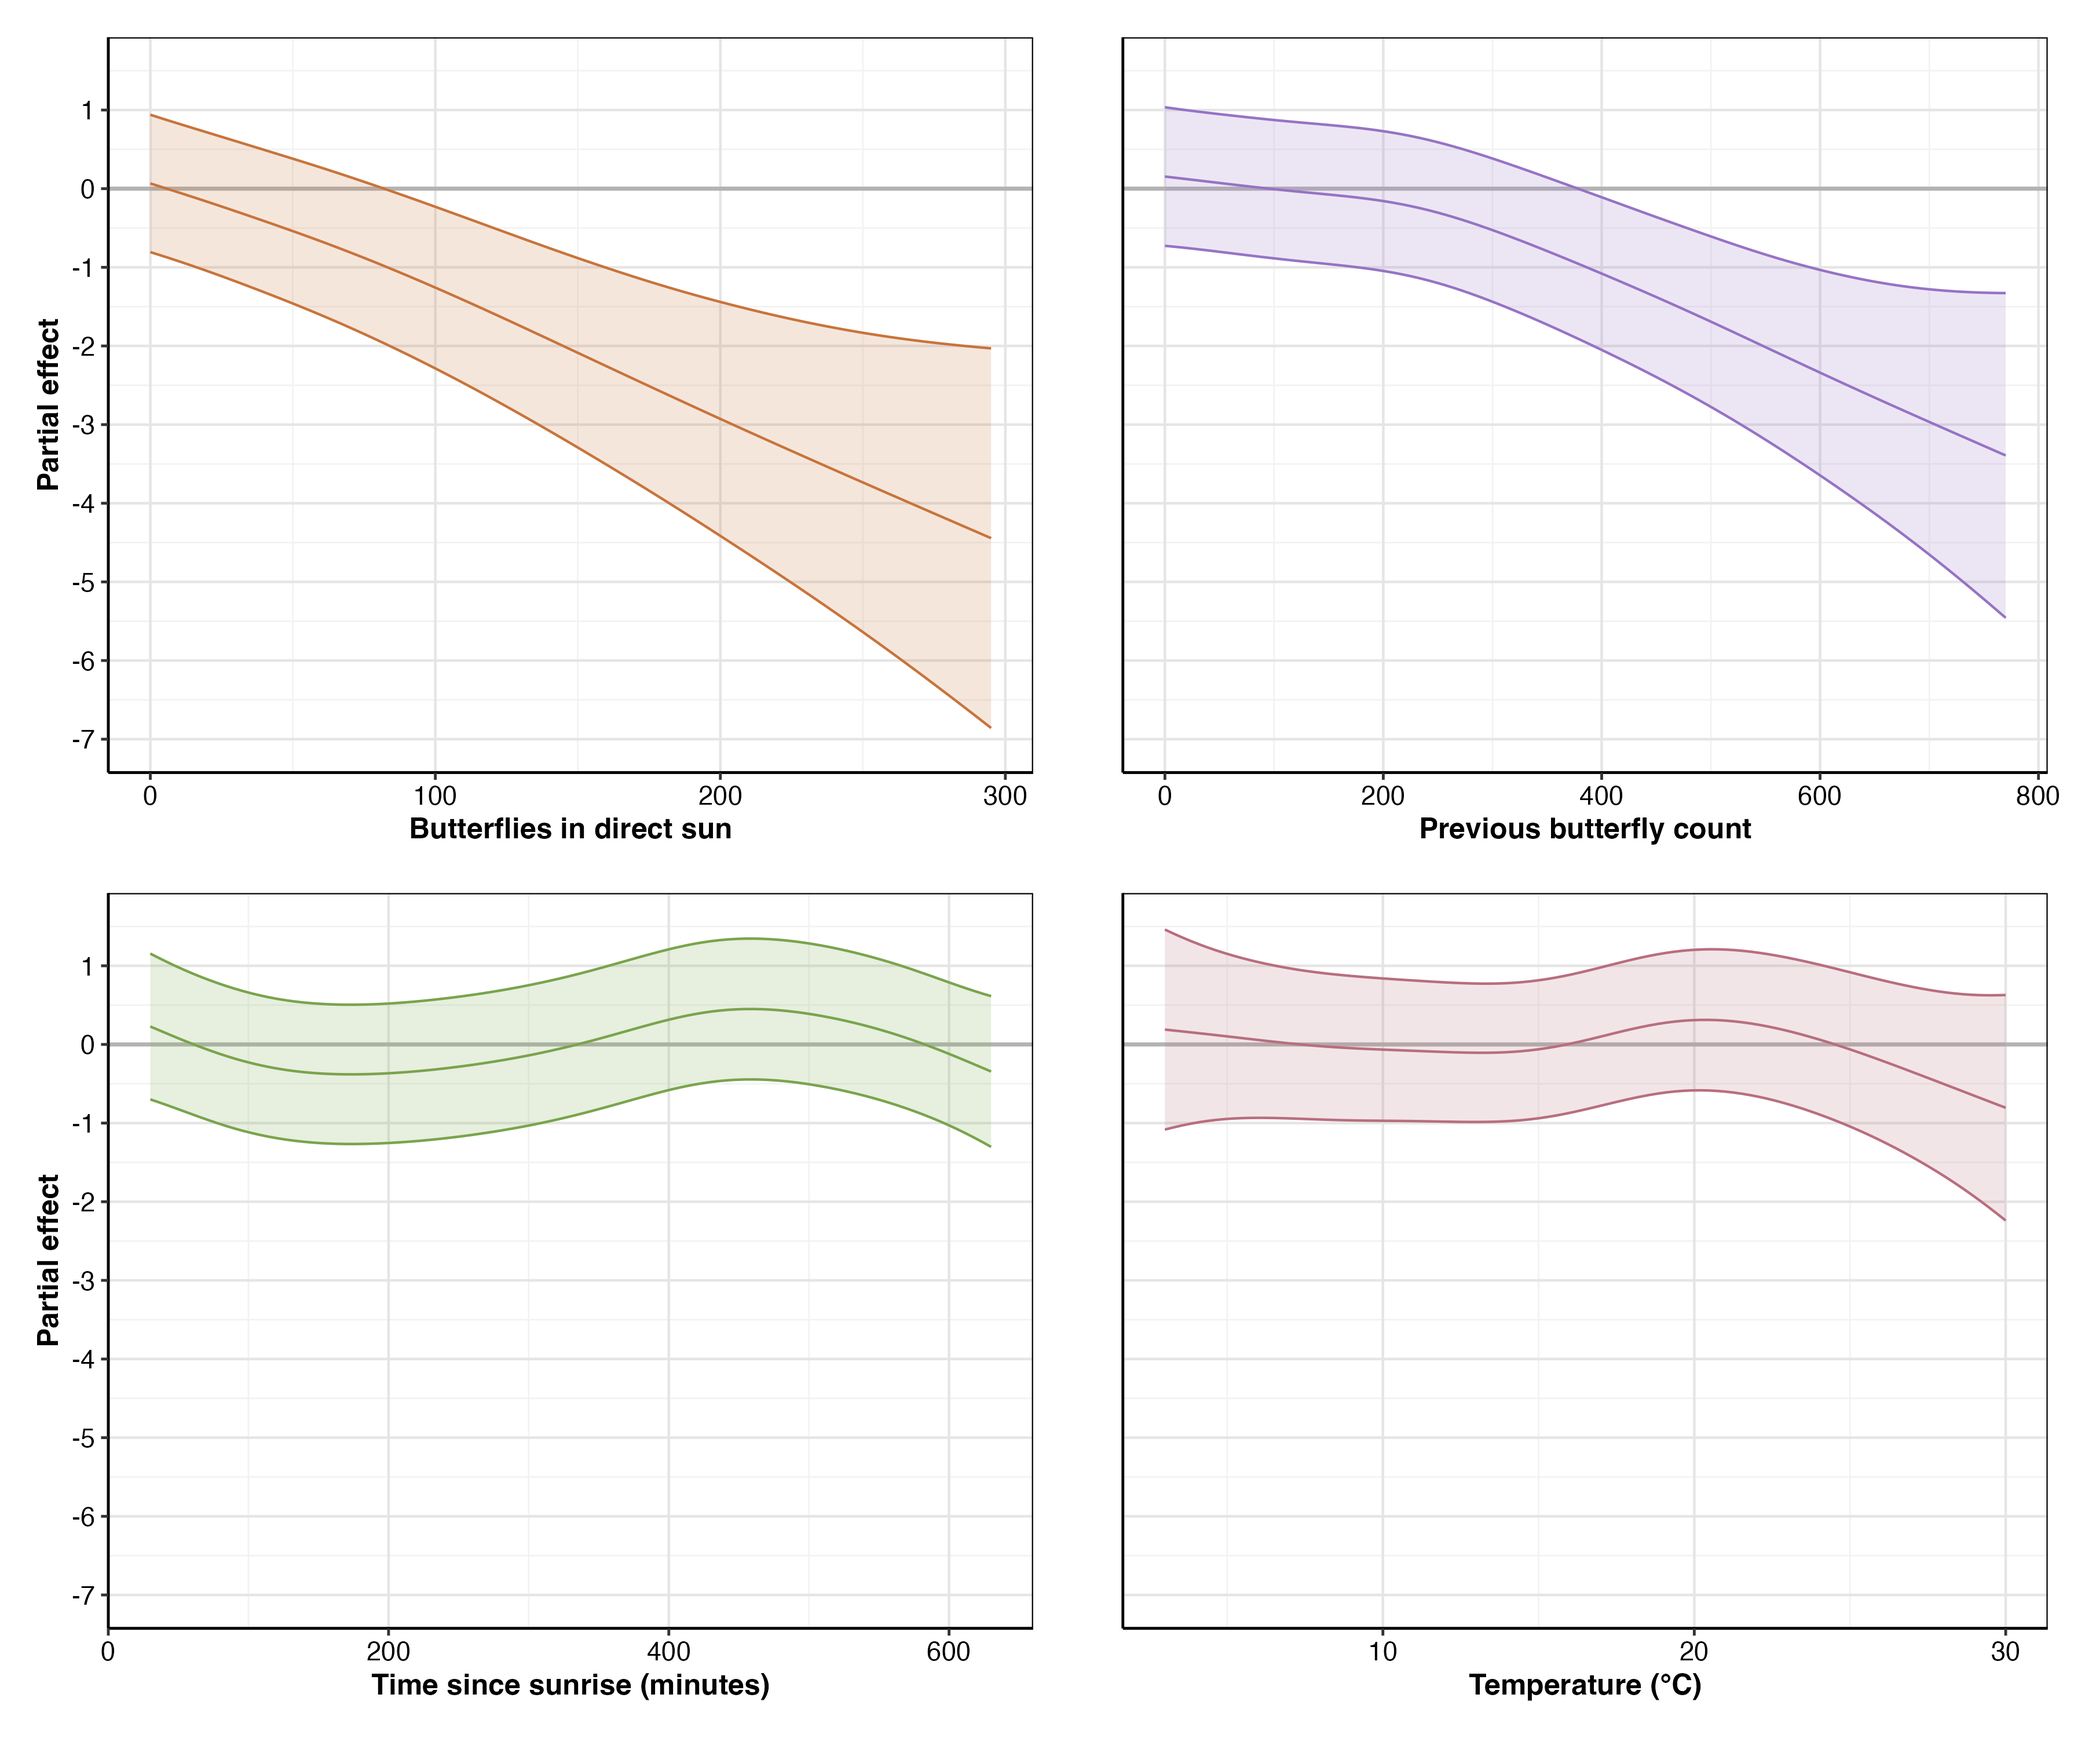
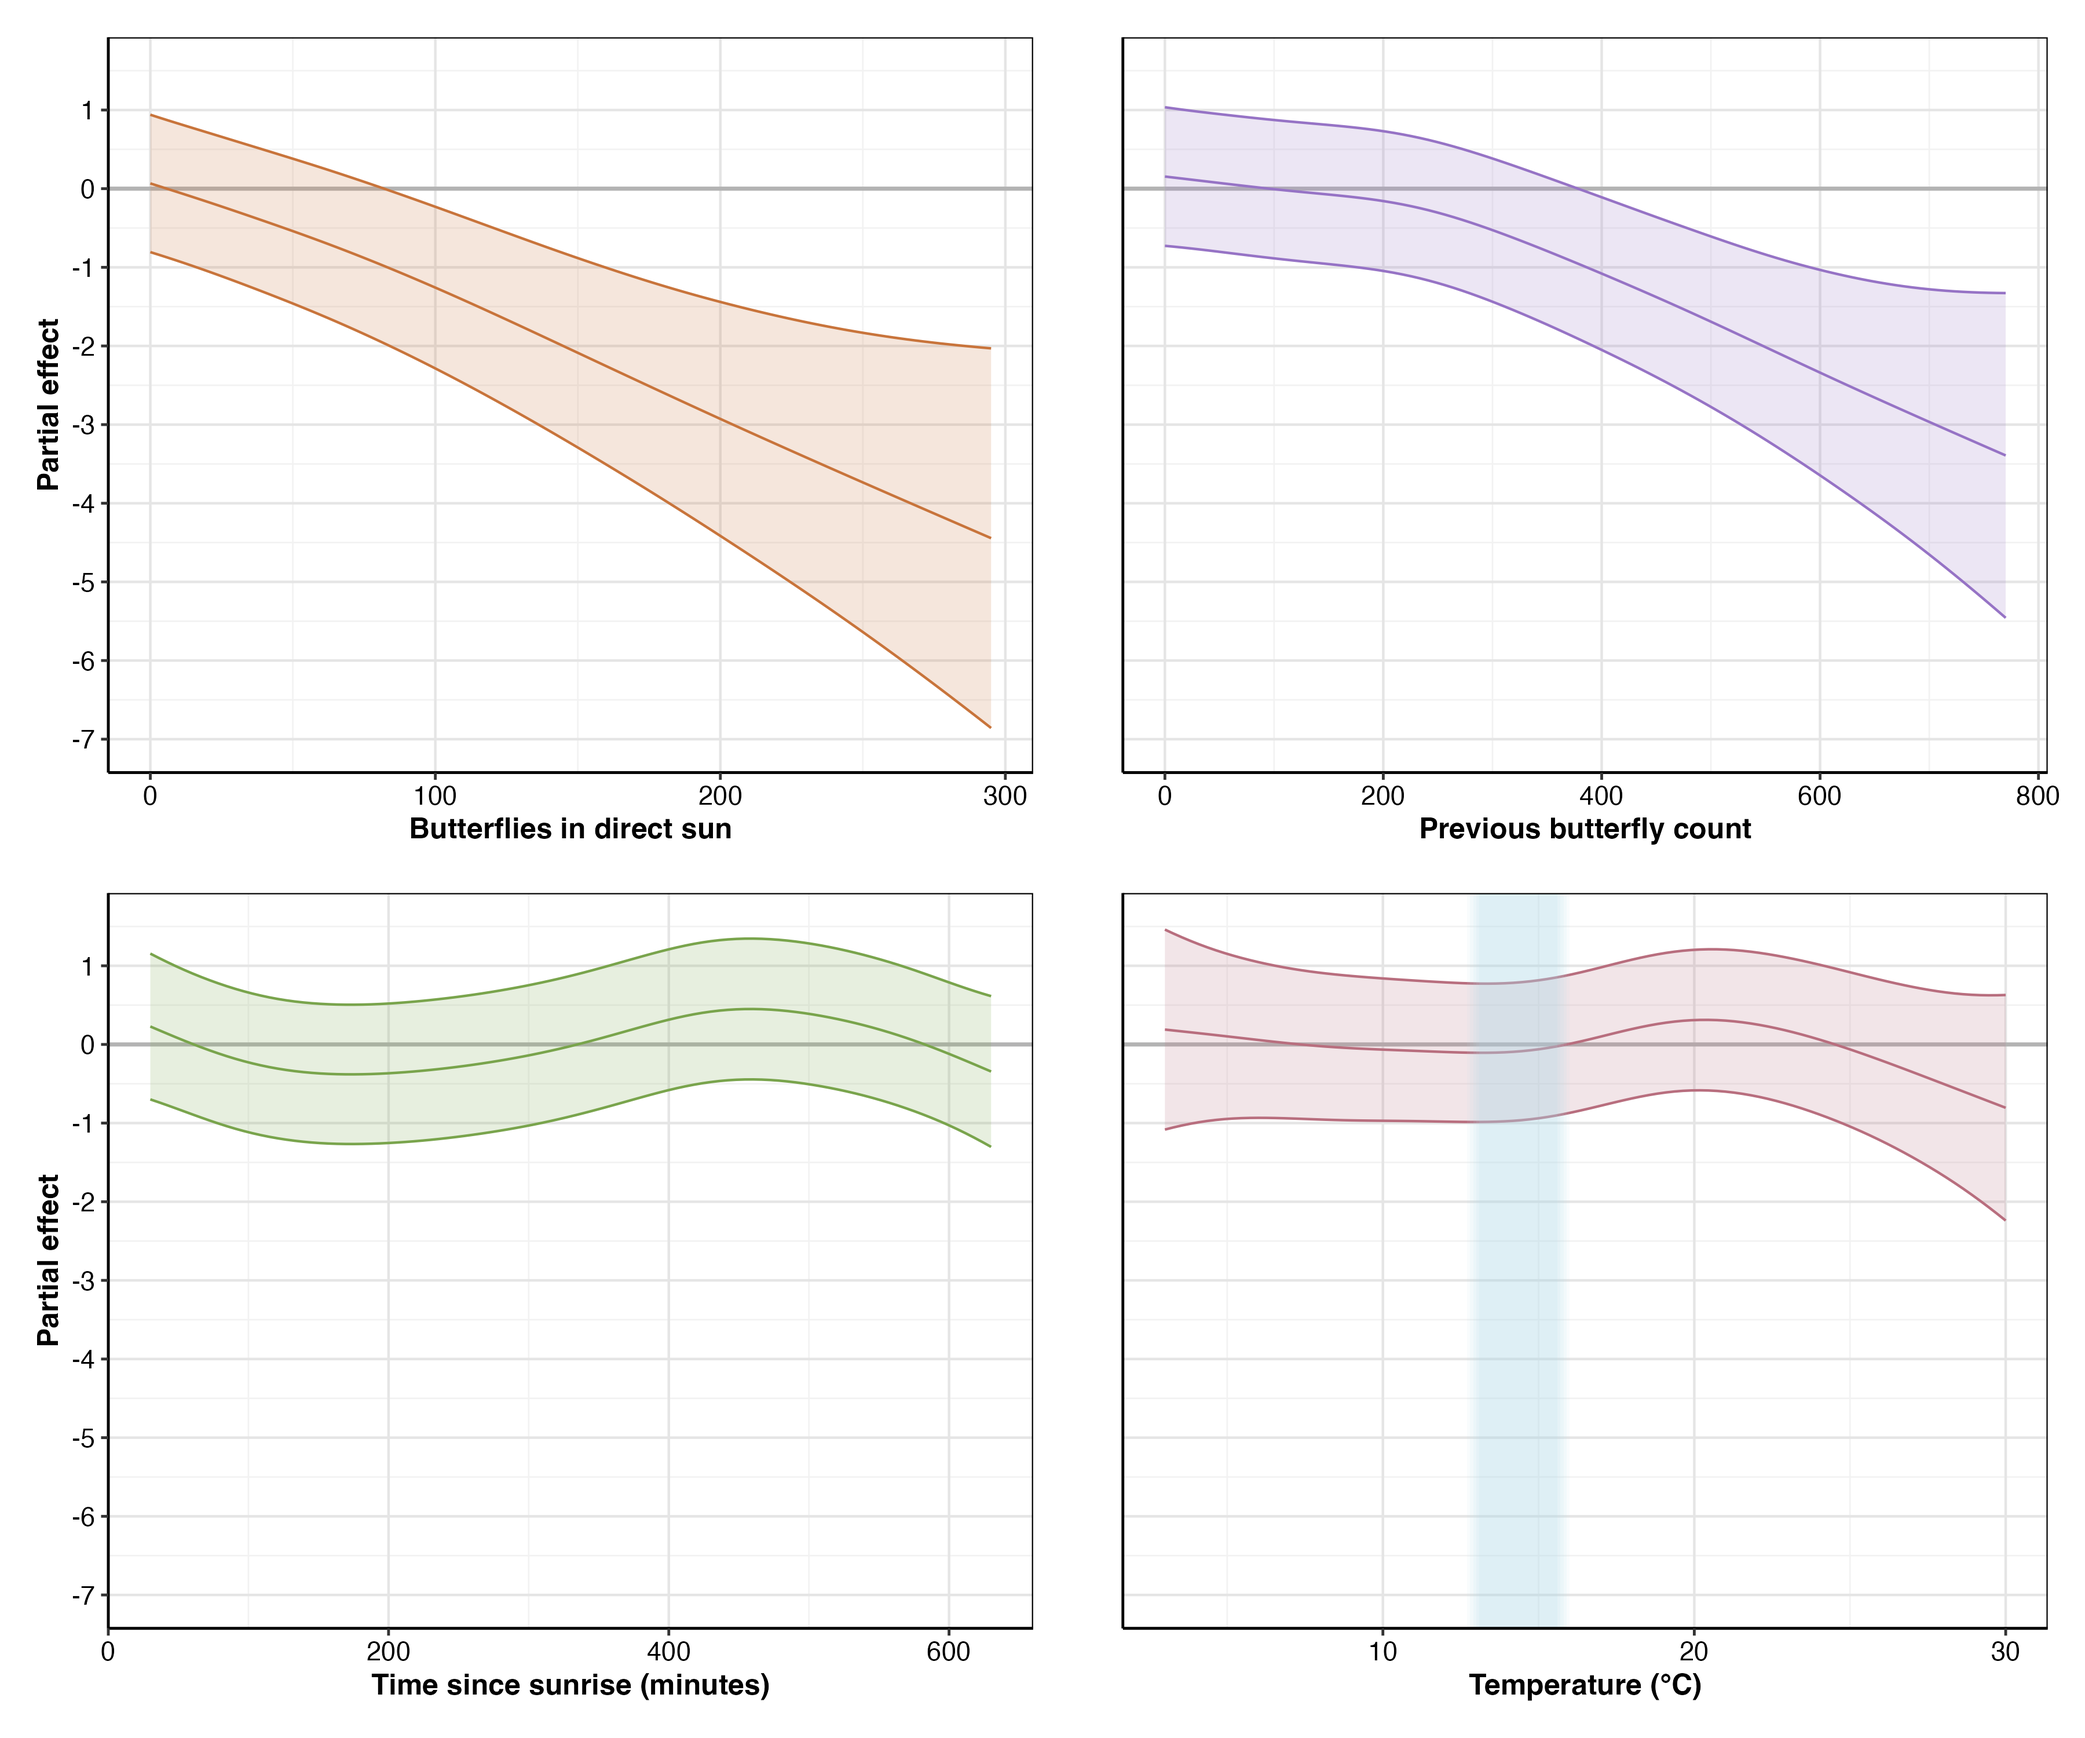
Provide additional details on patterns in partial effects. Add flight threshold band to figure.

Changed region(s): [[0.6844, 0.496, 0.7467, 0.961]]

diff --git a/chapters/vsfb/results.tex b/chapters/vsfb/results.tex
@@ -67,7 +67,7 @@ Time since sunrise & 4.90 & 4.90 & 8.90 & <2e-16 \\
 
 All four predictors in the best-fit model showed significant effects on monarch abundance changes (Figure~\ref{fig:partial_effects}). The previous butterfly count exhibited a significant non-linear negative relationship (EDF = 2.62, F = 12.02, p < 0.001), with increasingly negative changes as the previous count increased, indicating proportionally greater departures from larger aggregations. Butterflies in direct sun showed a strong negative effect on roost abundance (EDF = 1.53, F = 19.36, p < 0.001), with greater numbers in direct sun associated with larger decreases in total abundance.
 
-Time since sunrise revealed a pronounced diurnal pattern (EDF = 4.90, F = 8.90, p < 0.001), capturing cyclical changes in monarch activity throughout the day. Temperature exhibited a complex non-linear relationship (EDF = 3.93, F = 3.23, p = 0.028), with effects peaking at approximately 20°C.
+Time since sunrise revealed a pronounced diurnal pattern (EDF = 4.90, F = 8.90, p < 0.001), with monarchs departing clusters throughout the morning and reaching peak departures approximately 3.25 hours after sunrise. Cluster reformation began in the afternoon, with most butterflies returning around 8.25 hours after sunrise, capturing the characteristic daily rhythm of monarch activity at overwintering sites. Temperature exhibited a complex non-linear relationship (EDF = 3.93, F = 3.23, p = 0.028). Below the flight threshold (blue vertical band) of 12.7-16°C established by Masters et al. (1988), temperature had minimal effect on cluster abundance. Above this threshold, clusters reformed as temperatures increased up to 25°C, with peak reformation occurring around 21°C. Beyond 25°C, the pattern reversed, with each additional degree Celsius increasing departure rates from clusters.
 
 \begin{figure}[htbp]
 \centering
